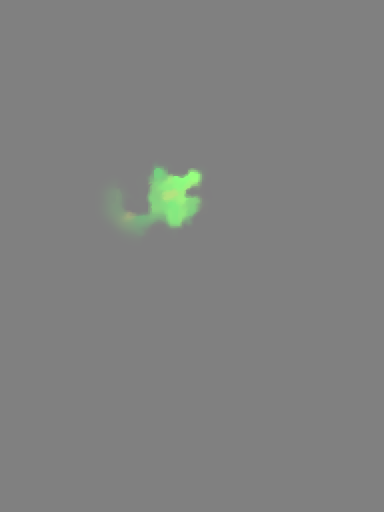
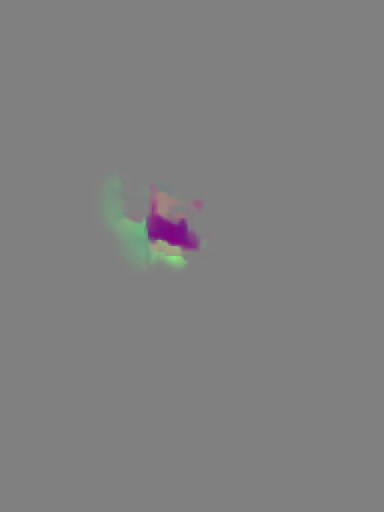
Arm raise: extra Qwen in-between (raise-1b) so the flow warp never tears; 5 flow pairs

Changed region(s): [[0.3125, 0.3125, 0.5312, 0.5312]]

diff --git a/js/hero/config.js b/js/hero/config.js
@@ -1,11 +1,11 @@
 /* Hero tuning. Everything a person may want to adjust after the real images land lives here. */
 
 /* Flip a key to true once its file exists in assets/hero/ (a 404 would log a console error). */
-export const REAL_IMAGES = Object.freeze({ stand: true, palm: true, eyes: true, desk: true, 'raise-1': true, 'raise-2': true, 'raise-3': true });
+export const REAL_IMAGES = Object.freeze({ stand: true, palm: true, eyes: true, desk: true, 'raise-1': true, 'raise-1b': true, 'raise-2': true, 'raise-3': true });
 
 export const IMAGE_PATH = 'assets/hero/';
 /* assets/ is served immutable (vercel.json): bump this whenever a hero image file changes. */
-export const IMAGE_VERSION = 2;
+export const IMAGE_VERSION = 3;
 export const heroImage = (name) => `${IMAGE_PATH}${name}.webp?v=${IMAGE_VERSION}`;
 
 /* EYE POSITION on stand.webp, as a percentage of the image box (0,0 = top left). Tune these two. */
@@ -18,7 +18,7 @@ export const PALM_Y_PCT = 32.7;
 export const CLOSEUP_EYES = Object.freeze([{ x: 43.5, y: 34.9 }, { x: 56.2, y: 32.8 }]);
 
 /* Image aspect ratios (width / height). */
-export const ASPECT = Object.freeze({ stand: 3 / 4, palm: 3 / 4, eyes: 4 / 3, desk: 4 / 3, 'raise-1': 3 / 4, 'raise-2': 3 / 4, 'raise-3': 3 / 4 });
+export const ASPECT = Object.freeze({ stand: 3 / 4, palm: 3 / 4, eyes: 4 / 3, desk: 4 / 3, 'raise-1': 3 / 4, 'raise-1b': 3 / 4, 'raise-2': 3 / 4, 'raise-3': 3 / 4 });
 
 /* Scenes in order. `overlap` is how many seconds the scene starts before the previous one ends. */
 export const SCENES = Object.freeze([
@@ -55,7 +55,7 @@ export const SEED_CROWS = 0x1d3a;
 export const RAISE_FLOW = Object.freeze({
   width: 768,
   height: 1024,
-  pairs: [71, 91, 52, 47].map((range, i) => ({
+  pairs: [71, 84, 49, 52, 47].map((range, i) => ({
     f01: `${IMAGE_PATH}flow/flow-${i}-f.png?v=${IMAGE_VERSION}`,
     f10: `${IMAGE_PATH}flow/flow-${i}-b.png?v=${IMAGE_VERSION}`,
     range,

diff --git a/index.html b/index.html
@@ -133,6 +133,7 @@
                 <img class="hx-pose-stand" data-hx-img="stand" alt="" aria-hidden="true" decoding="async">
                 <img class="hx-pose-palm" data-hx-img="palm" alt="Anand with his right palm raised at chest height" decoding="async">
                 <img class="hx-pose-src" data-hx-img="raise-1" alt="" aria-hidden="true" decoding="async">
+                <img class="hx-pose-src" data-hx-img="raise-1b" alt="" aria-hidden="true" decoding="async">
                 <img class="hx-pose-src" data-hx-img="raise-2" alt="" aria-hidden="true" decoding="async">
                 <img class="hx-pose-src" data-hx-img="raise-3" alt="" aria-hidden="true" decoding="async">
                 <canvas class="hx-pose-blend" data-fx="pose-blend" aria-hidden="true"></canvas>
